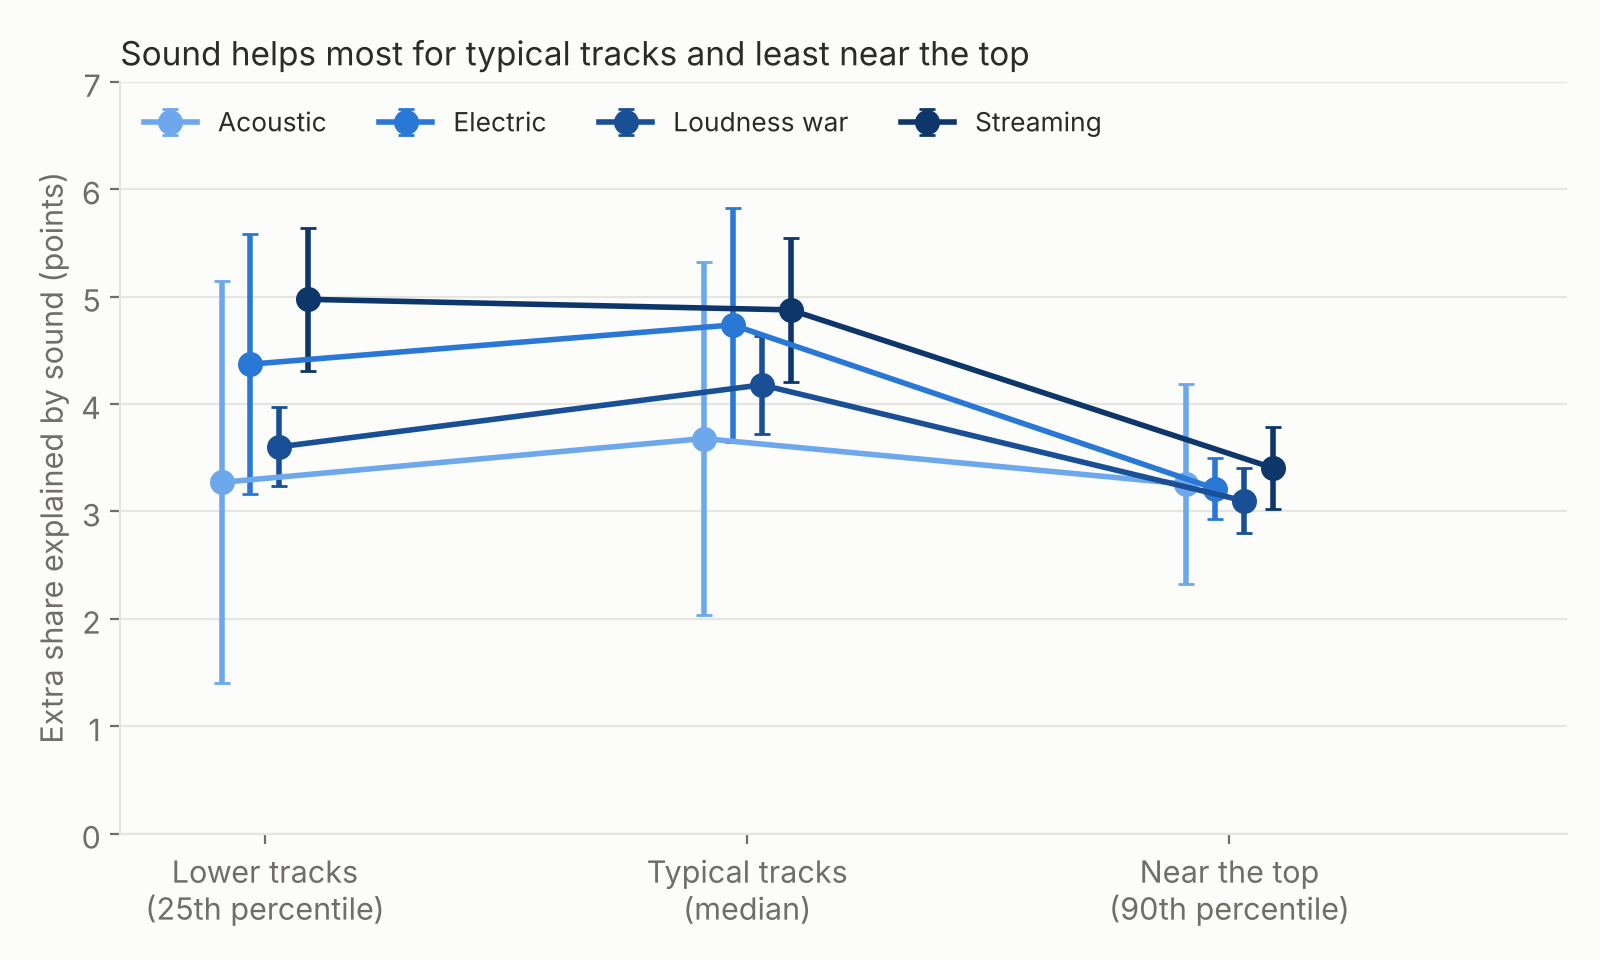
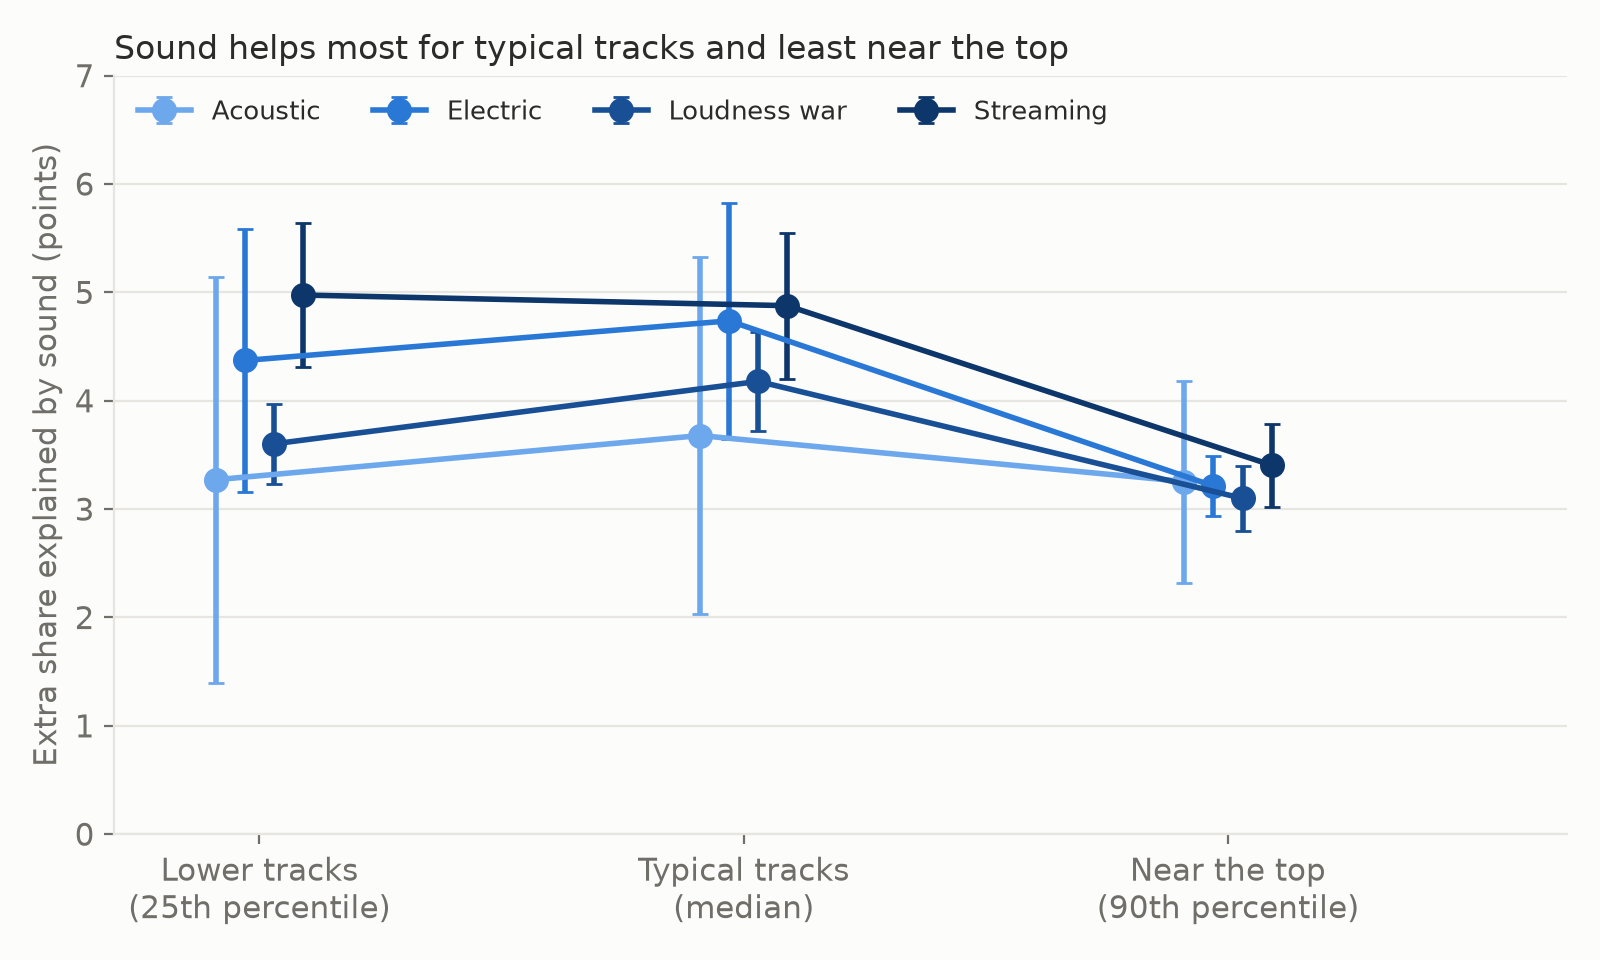
feat(figures): labels and font

diff --git a/src/report/figures.py b/src/report/figures.py
@@ -23,6 +23,8 @@ FEATURE_COLORS = ['#2a78d6', '#eb6834', '#1baf7a', '#eda100', '#e87ba4', '#00830
 
 plt.rcParams.update(
     {
+        'font.family': 'sans-serif',
+        'font.sans-serif': ['Inter', 'DejaVu Sans'],
         'font.size': 11,
         'axes.edgecolor': GRID,
         'axes.labelcolor': MUTED,
@@ -49,32 +51,30 @@ summary = (
 )
 print(f'Loaded XGBoost scores for {scores["subset"].nunique()} subsets')
 
-# Figure 1: who made it vs how it sounds, median track, by era
+# Figure 1: artist vs sound, median track, by era
 median = summary.xs(0.5, level='quantile').loc[ERAS]
 fig, ax = plt.subplots(figsize=(8, 4.8))
 x = range(len(ERAS))
-ax.bar(x, median['background'], width=0.6, color=BLUE, label='Who made it (artist reach, genre, year, length)')
+ax.bar(x, median['background'], width=0.6, color=BLUE, label='Artist (reach, plus genre, year, length)')
 ax.bar(
     x,
     median['gain'],
     width=0.6,
     bottom=median['background'] + 0.3,
     color=ORANGE,
-    label='How it sounds (10 audio features)',
+    label='Sound (10 audio features)',
 )
 for i, era in enumerate(ERAS):
-    share = median.loc[era, 'gain'] / median.loc[era, 'background']
+    times = median.loc[era, 'background'] / median.loc[era, 'gain']
     top = median.loc[era, 'background'] + median.loc[era, 'gain']
-    ax.text(i, top + 0.8, f'sound = {share:.0%}\nof who made it', ha='center', va='bottom', color=INK, fontsize=9.5)
+    ax.text(i, top + 0.8, f'artist = {times:.1f}x\nsound', ha='center', va='bottom', color=INK, fontsize=9.5)
 ax.set_xticks(list(x), [f'{e}\n{y}' for e, y in zip(ERAS, ERA_YEARS, strict=True)])
 ax.set_ylabel('Share of popularity explained (%)')
 ax.set_ylim(0, 40)
 ax.yaxis.grid(True, color=GRID)
 ax.set_axisbelow(True)
 ax.legend(frameon=False, loc='upper left', fontsize=9.5, labelcolor=INK)
-ax.set_title(
-    'Sound adds about the same in every era. Who made the song keeps growing.', loc='left', color=INK, fontsize=12
-)
+ax.set_title('The artist matters more each era; sound stays about the same', loc='left', color=INK, fontsize=12)
 fig.tight_layout()
 fig.savefig(FIGURES / 'who_vs_sound.png', dpi=200)
 plt.close(fig)
